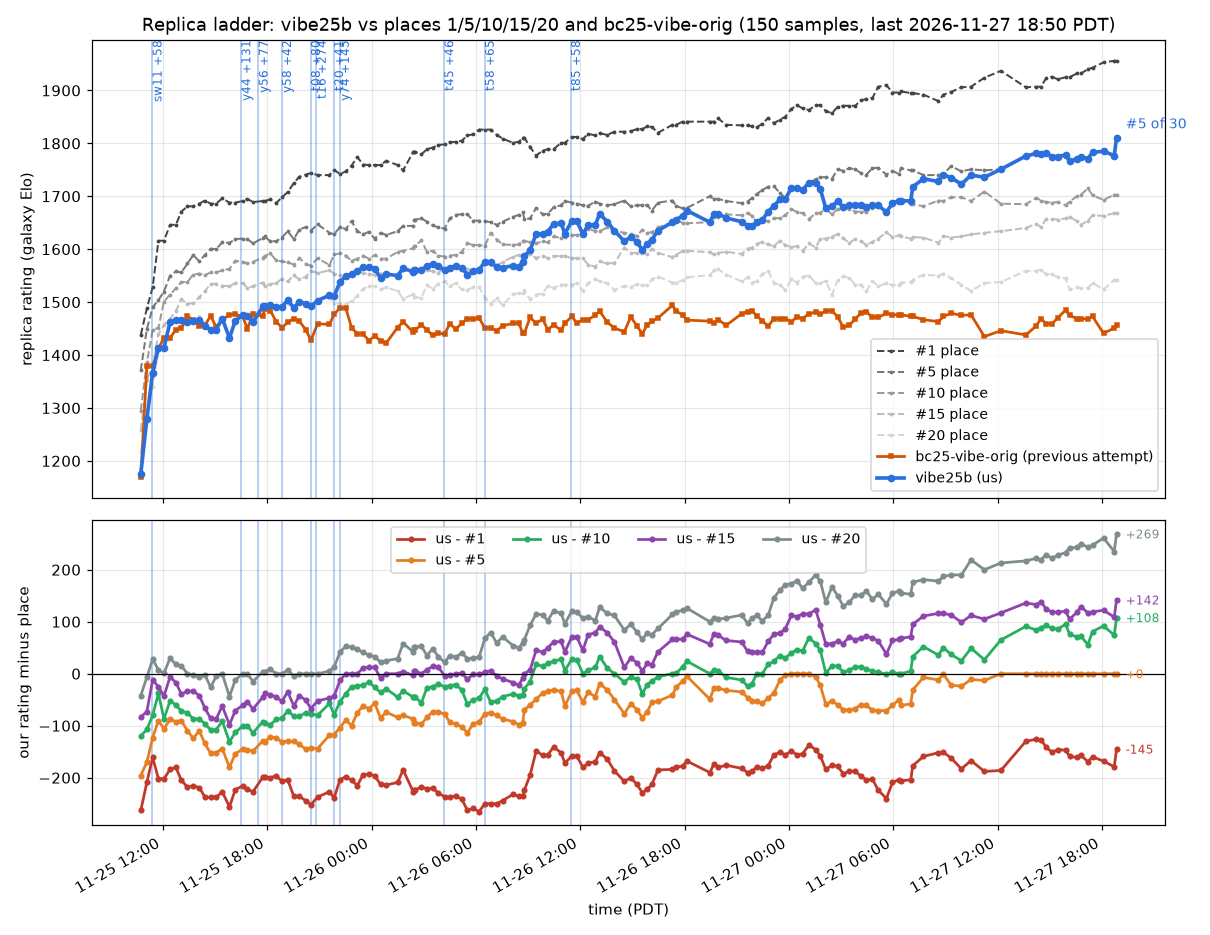
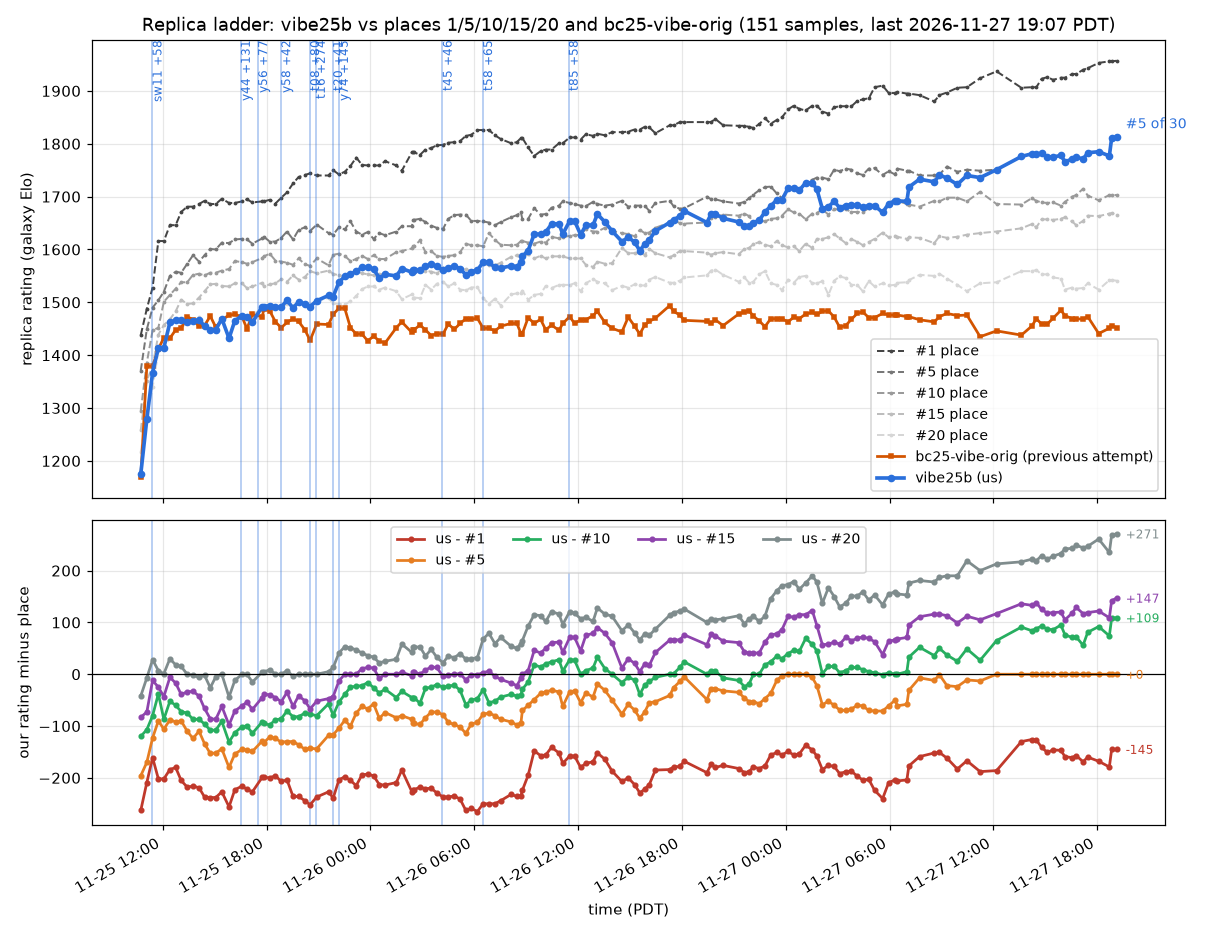
prod: retire t165 (-20); y316 sets 1812 at #5
Claude-Session: https://claude.ai/code/session_01SzziPSCWtjsjju9cnThDf5

diff --git a/progress/local-elo.md b/progress/local-elo.md
@@ -1,58 +1,58 @@
 # Local tournament Elo
 
-Bradley-Terry ratings of our own bots in the local tournament (`tools/tourney.py`), all 184613 games in one fit as of 2026-11-27 18:58 PDT, so every point is on the same scale; earlier champions are shown at their current rating, and "Gain" is the rating over the champion it replaced. `tools/tourney.py rank` rewrites this table; `tools/tourney.py chart` also redraws the chart.
+Bradley-Terry ratings of our own bots in the local tournament (`tools/tourney.py`), all 185745 games in one fit as of 2026-11-27 19:08 PDT, so every point is on the same scale; earlier champions are shown at their current rating, and "Gain" is the rating over the champion it replaced. `tools/tourney.py rank` rewrites this table; `tools/tourney.py chart` also redraws the chart.
 
 ![local elo](local-elo.png)
 
 | Champion from (PDT) | Bot | Change on base | Submission | Rating +- SE | Gain | Games |
 |---|---|---|---:|---:|---:|---:|
-| 2026-11-25 08:28 | v01 | foundation bot |  | 105 +- 18 |  | 435 |
-| 2026-11-25 08:39 | v02 | nav wall-follow fix + bytecode guards on v01 | #6 | 170 +- 13 | +65 | 801 |
-| 2026-11-25 09:01 | y02 | paint-heavy tower mix + paint towers upgraded first on v02 | #7 | 229 +- 11 | +59 | 1080 |
-| 2026-11-25 09:49 | y06 | 3 opening soldiers instead of 2 on y02 | #35 | 250 +- 13 | +21 | 700 |
-| 2026-11-25 10:09 | sw06 | no moppers before r80; a third of spawns moppers after (field study 1) on y02 | #36 | 308 +- 12 | +79 | 863 |
-| 2026-11-25 11:04 | y11 | mid-game mix 3 moppers per 6 (soldier mopper splasher mopper soldier mopper) on sw06 | #37 | 340 +- 14 | +33 | 655 |
-| 2026-11-25 11:24 | sw11 | at most 1 helper soldier per ruin (more ruins claimed in parallel) on y11 | #38 | 398 +- 11 | +58 | 1159 |
-| 2026-11-25 12:24 | y17 | sw11 + moppers prefer enemies within r2 25 of our towers (sw12) on sw11 | #39 | 417 +- 12 | +18 | 871 |
-| 2026-11-25 12:44 | y19 | sw11 with soldiers joining an occupied ruin only when adjacent (r2<=2) on y17 | #40 | 452 +- 14 | +35 | 678 |
-| 2026-11-25 13:04 | y24 | y17 with mopper defence widened (DEFEND_R2 36 / bonus 80) on y19 | #41 | 486 +- 13 | +35 | 679 |
-| 2026-11-25 13:24 | y25 | y19 (adjacent-only ruin helping) + y17 tower-defending moppers on y24 | #42 | 496 +- 12 | +9 | 898 |
-| 2026-11-25 13:44 | sw16 | y25 + soldier siege: with no ruin and paint>=80 kite a known enemy tower within r2 64 on y25 | #43 | 520 +- 11 | +24 | 976 |
-| 2026-11-25 14:04 | sw17 | y28 (siege from 50 paint r2 100) + splasher siege (towers weigh 40; walk to known tower within r2 100 at paint>=100) on sw16 | #44 | 553 +- 10 | +33 | 1110 |
-| 2026-11-25 14:44 | y30 | y28 with soldier siege from 30 paint within r2 144 (no splasher siege) on sw17 | #45 | 570 +- 7 | +17 | 2377 |
-| 2026-11-25 16:30 | y44 | study 3 tactic 3 (enemy refill policy): return at 50% paint (soldier 100/splasher 100/mopper 40) + end-of-turn top-up from any adjacent ally tower on y30 | #46 | 700 +- 8 | +131 | 2250 |
-| 2026-11-25 17:30 | y56 | study 3 tactic 4 (tower churn): a drained L1 money tower with intact pattern and an ally adjacent disintegrates at >=2000 chips; adjacent robots re-complete it for a fresh 500 paint on y44 | #47 | 778 +- 10 | +77 | 1320 |
-| 2026-11-25 18:50 | y58 | study 3 tactic 2 (early soldiers paint patterns not coverage): exploring soldiers paint no coverage before r50 on y56 | #48 | 819 +- 11 | +42 | 997 |
-| 2026-11-25 19:30 | t04 | t02 (no coverage painting before r80) + t03 (units wait beside drained money towers and repair their pattern so churn fires; study 3 tactics 2 and 4) on y58 | #49 | 852 +- 11 | +33 | 1065 |
-| 2026-11-25 20:30 | t08 | study 4 2.2 (contested ruins): soldiers skip a ruin with enemy paint in its visible 5x5 (bad for 50 rounds) on t04 | #50 | 932 +- 13 | +80 | 775 |
-| 2026-11-25 20:50 | t16 | t12 (t08 + study 4 2.1 spawn freeze 8 rounds in 20 below 1000+cost) + study 4 2.4 money-first: builds money until 8 towers then paint while paint towers < n/5; paint first only if none (all towers known) on t08 | #51 | 1207 +- 12 | +274 | 1213 |
-| 2026-11-25 21:50 | t20 | study 4 2.3: splashers weight enemy towers 30 (was 12) in the splash score on t16 | #52 | 1248 +- 15 | +41 | 587 |
-| 2026-11-25 22:10 | y74 | unit audit (owner prompt #15): splash-grid bug fix (enemy tiles never scored) + moppers stop once enemy paint is in mop reach; built on t16 on t20 | #53 | 1392 +- 10 | +145 | 1255 |
-| 2026-11-25 23:10 | t25 | unit audit + top teams' unit mix (616 S / 662 X / 701 M): after r80 paint towers cycle soldier-splasher-mopper; money towers keep S M X M S M on y74 | #54 | 1429 +- 13 | +36 | 680 |
-| 2026-11-25 23:30 | t27 | top teams' splasher-heavy late mix pushed further: paint towers cycle soldier-splasher-splasher-mopper after r80 on t25 | #55 | 1451 +- 9 | +23 | 1554 |
-| 2026-11-26 00:30 | y95 | upgrade spare 1200 (was 800): chips stay for new towers longer on t27 | #56 | 1486 +- 9 | +35 | 1822 |
-| 2026-11-26 02:01 | t36 | late SRPs (study 4 2.6 / study 3 tactic 7): soldiers without a ruin build SRPs on the x%4==2 y%4==2 lattice from r100 with chips>=1000; splashers avoid repainting SRP secondary tiles on y95 | #57 | 1523 +- 11 | +37 | 977 |
-| 2026-11-26 02:50 | y110 | money towers upgrade only with 2500 chips beyond the cost+spare (was 1000): chips go to new towers and SRPs on t36 | #58 | 1554 +- 10 | +31 | 1260 |
-| 2026-11-26 03:30 | t42 | study 4 3.1 recovery: with every tower known and no money tower left the next ruin is a money tower on y110 | #59 | 1568 +- 10 | +14 | 1332 |
-| 2026-11-26 04:10 | t45 | study 3 tactic 1: after r40 towers spawn only with 1000 chips beyond the unit's cost (no 600-chip window) on t42 | #60 | 1614 +- 10 | +46 | 1226 |
-| 2026-11-26 04:50 | t47 | study 3 tactic 5: a mopper due in the cycle spawns even below the 1000 reserve when an enemy robot is within d2 20 of the tower on t45 | #61 | 1643 +- 7 | +29 | 2398 |
-| 2026-11-26 06:30 | t58 | study 5 2.3: a splasher that has not splashed for 8 rounds (while able to) explores instead of chasing the nearest non-ally tile on t47 | #62 | 1708 +- 11 | +65 | 1087 |
-| 2026-11-26 07:10 | t61 | study 5 2.1 (softened): money towers for builds 1-5; then one more paint tower per 4 towers on t58 | #63 | 1744 +- 11 | +36 | 938 |
-| 2026-11-26 07:30 | y155 | study 5 2.1 tuned: money towers for builds 1-6; then one more paint tower per 4 towers on t61 | #64 | 1775 +- 9 | +31 | 1615 |
-| 2026-11-26 08:27 | t70 | y155 + splashers weight enemy towers 30 (t68) + 2000+ chips makes the next tower a paint tower (y159) on y155 | #65 | 1802 +- 7 | +26 | 2530 |
-| 2026-11-26 09:47 | t74 | moppers weight enemy paint near ruins 40 (study 6 2.1c) on t70 | #66 | 1821 +- 8 | +19 | 2200 |
-| 2026-11-26 10:47 | y170 | soldiers make the next tower a paint tower at 1500+ chips (t63 tuning; was 2000) on t74 | #67 | 1817 +- 7 | -4 | 2823 |
-| 2026-11-26 11:27 | t85 | study 6 2.2 ruin denial from where the soldier stands: a soldier with no ruin paints empty tiles of a ruin the enemy is building; without walking to it on y170 | #68 | 1874 +- 7 | +58 | 2556 |
-| 2026-11-26 12:47 | t91 | study 7 2.5: moppers ignore ruins under enemy towers when weighting ruin paint on t85 | #69 | 1886 +- 5 | +12 | 5663 |
-| 2026-11-26 13:27 | y195 | study 7 2.1a: explore unseen tiles first; up to 16 random draws on t91 | #70 | 1900 +- 9 | +14 | 1349 |
-| 2026-11-26 14:12 | y197 | ruin denial stops at 2 of our tiles (tuning of study 6 2.2) on y195 | #71 | 1916 +- 7 | +16 | 2235 |
-| 2026-11-26 15:27 | y211 | study 7 2.1a tuned: up to 128 random draws for an unseen explore target (was 16) on y197 | #72 | 1919 +- 6 | +3 | 4141 |
-| 2026-11-26 17:47 | y221 | study 8 2.2 (paint the first tower's pattern on the way in; a second soldier on the first ruin) + explore timeout 90; first champion through the confirmation stage (owner #46) on y211 | #73 | 1955 +- 5 | +35 | 6990 |
-| 2026-11-26 19:34 | t111 | splashers attack enemy paint/money towers from a stand-off tile outside their range (study 8 2.4) on y221 | #74 | 1969 +- 4 | +14 | 7551 |
-| 2026-11-26 23:27 | t118 | study 9 2.1b: a soldier on a blocked pattern with no own mopper or splasher in view gives up after 5 turns (was 25); confirmed +71 +-29 in 153 fresh games on t111 | #75 | 2005 +- 4 | +36 | 15801 |
-| 2026-11-27 01:07 | t122 | study 9 2.4: paint-tower dry flags expire after 10 rounds (was 40) and a flagged tower in sight is re-sensed; confirmed +6 +-19 in 378 fresh games; +16 overall on t118 | #76 | 2016 +- 4 | +11 | 18772 |
-| 2026-11-27 06:10 | t135 | study 10 2.6d: a soldier with no other soldier in view skips the 25-paint pattern mark (the top teams never mark); confirmed +9 +-22 in 262 fresh games; +14 overall on t122 | #77 | 2012 +- 6 | -4 | 6388 |
-| 2026-11-27 08:28 | t140 (now r140, verified identical) | study 11 2.1: free single marks (rc.mark on the 5x5 outer ring) replace the 25-paint pattern mark; marks re-read beside the ruin; confirmed +40 +-23 in 251 fresh games; +30 overall on t135 | #78 | 2055 +- 4 | +43 | 15874 |
-| 2026-11-27 16:27 | t158 | study 12 2.2: moppers hit and run (after acting; step off non-ally paint and away from enemy moppers within d2 8 and towers within d2 9); +40 +-24 over r140 in 217 games; first crowning without the confirmation stage (owner #66) on r140 | #79 | 2092 +- 7 | +38 | 2631 |
-| 2026-11-27 17:47 | t160 | t158 + study 12 2.4 n1 (Nav.tileCost counts adjacent allies; the engine's drain rule; y295) + 2.2 m1 (moppers swing at a single robot; t152); +17 +-15 over t158 in 818 games on t158 | #80 | 2107 +- 8 | +15 | 1943 |
-| 2026-11-27 18:25 | y316 | t160 + Nav paint weight 8 (was 6); +34 +-25 over t160 in 224 games on t160 | #81 | 2101 +- 13 | -6 | 722 |
+| 2026-11-25 08:28 | v01 | foundation bot |  | 99 +- 18 |  | 435 |
+| 2026-11-25 08:39 | v02 | nav wall-follow fix + bytecode guards on v01 | #6 | 164 +- 13 | +65 | 801 |
+| 2026-11-25 09:01 | y02 | paint-heavy tower mix + paint towers upgraded first on v02 | #7 | 223 +- 11 | +59 | 1080 |
+| 2026-11-25 09:49 | y06 | 3 opening soldiers instead of 2 on y02 | #35 | 244 +- 13 | +21 | 700 |
+| 2026-11-25 10:09 | sw06 | no moppers before r80; a third of spawns moppers after (field study 1) on y02 | #36 | 302 +- 12 | +79 | 863 |
+| 2026-11-25 11:04 | y11 | mid-game mix 3 moppers per 6 (soldier mopper splasher mopper soldier mopper) on sw06 | #37 | 334 +- 14 | +33 | 655 |
+| 2026-11-25 11:24 | sw11 | at most 1 helper soldier per ruin (more ruins claimed in parallel) on y11 | #38 | 392 +- 11 | +58 | 1159 |
+| 2026-11-25 12:24 | y17 | sw11 + moppers prefer enemies within r2 25 of our towers (sw12) on sw11 | #39 | 411 +- 12 | +18 | 871 |
+| 2026-11-25 12:44 | y19 | sw11 with soldiers joining an occupied ruin only when adjacent (r2<=2) on y17 | #40 | 446 +- 14 | +35 | 678 |
+| 2026-11-25 13:04 | y24 | y17 with mopper defence widened (DEFEND_R2 36 / bonus 80) on y19 | #41 | 480 +- 13 | +35 | 679 |
+| 2026-11-25 13:24 | y25 | y19 (adjacent-only ruin helping) + y17 tower-defending moppers on y24 | #42 | 490 +- 12 | +9 | 898 |
+| 2026-11-25 13:44 | sw16 | y25 + soldier siege: with no ruin and paint>=80 kite a known enemy tower within r2 64 on y25 | #43 | 514 +- 11 | +24 | 976 |
+| 2026-11-25 14:04 | sw17 | y28 (siege from 50 paint r2 100) + splasher siege (towers weigh 40; walk to known tower within r2 100 at paint>=100) on sw16 | #44 | 547 +- 10 | +33 | 1110 |
+| 2026-11-25 14:44 | y30 | y28 with soldier siege from 30 paint within r2 144 (no splasher siege) on sw17 | #45 | 564 +- 7 | +17 | 2377 |
+| 2026-11-25 16:30 | y44 | study 3 tactic 3 (enemy refill policy): return at 50% paint (soldier 100/splasher 100/mopper 40) + end-of-turn top-up from any adjacent ally tower on y30 | #46 | 694 +- 8 | +131 | 2250 |
+| 2026-11-25 17:30 | y56 | study 3 tactic 4 (tower churn): a drained L1 money tower with intact pattern and an ally adjacent disintegrates at >=2000 chips; adjacent robots re-complete it for a fresh 500 paint on y44 | #47 | 772 +- 10 | +77 | 1320 |
+| 2026-11-25 18:50 | y58 | study 3 tactic 2 (early soldiers paint patterns not coverage): exploring soldiers paint no coverage before r50 on y56 | #48 | 813 +- 11 | +42 | 997 |
+| 2026-11-25 19:30 | t04 | t02 (no coverage painting before r80) + t03 (units wait beside drained money towers and repair their pattern so churn fires; study 3 tactics 2 and 4) on y58 | #49 | 846 +- 11 | +33 | 1065 |
+| 2026-11-25 20:30 | t08 | study 4 2.2 (contested ruins): soldiers skip a ruin with enemy paint in its visible 5x5 (bad for 50 rounds) on t04 | #50 | 926 +- 13 | +80 | 775 |
+| 2026-11-25 20:50 | t16 | t12 (t08 + study 4 2.1 spawn freeze 8 rounds in 20 below 1000+cost) + study 4 2.4 money-first: builds money until 8 towers then paint while paint towers < n/5; paint first only if none (all towers known) on t08 | #51 | 1201 +- 12 | +274 | 1213 |
+| 2026-11-25 21:50 | t20 | study 4 2.3: splashers weight enemy towers 30 (was 12) in the splash score on t16 | #52 | 1242 +- 15 | +41 | 587 |
+| 2026-11-25 22:10 | y74 | unit audit (owner prompt #15): splash-grid bug fix (enemy tiles never scored) + moppers stop once enemy paint is in mop reach; built on t16 on t20 | #53 | 1386 +- 10 | +145 | 1255 |
+| 2026-11-25 23:10 | t25 | unit audit + top teams' unit mix (616 S / 662 X / 701 M): after r80 paint towers cycle soldier-splasher-mopper; money towers keep S M X M S M on y74 | #54 | 1423 +- 13 | +36 | 680 |
+| 2026-11-25 23:30 | t27 | top teams' splasher-heavy late mix pushed further: paint towers cycle soldier-splasher-splasher-mopper after r80 on t25 | #55 | 1445 +- 9 | +22 | 1554 |
+| 2026-11-26 00:30 | y95 | upgrade spare 1200 (was 800): chips stay for new towers longer on t27 | #56 | 1480 +- 9 | +35 | 1822 |
+| 2026-11-26 02:01 | t36 | late SRPs (study 4 2.6 / study 3 tactic 7): soldiers without a ruin build SRPs on the x%4==2 y%4==2 lattice from r100 with chips>=1000; splashers avoid repainting SRP secondary tiles on y95 | #57 | 1517 +- 11 | +37 | 977 |
+| 2026-11-26 02:50 | y110 | money towers upgrade only with 2500 chips beyond the cost+spare (was 1000): chips go to new towers and SRPs on t36 | #58 | 1548 +- 10 | +31 | 1260 |
+| 2026-11-26 03:30 | t42 | study 4 3.1 recovery: with every tower known and no money tower left the next ruin is a money tower on y110 | #59 | 1562 +- 10 | +14 | 1332 |
+| 2026-11-26 04:10 | t45 | study 3 tactic 1: after r40 towers spawn only with 1000 chips beyond the unit's cost (no 600-chip window) on t42 | #60 | 1608 +- 10 | +46 | 1226 |
+| 2026-11-26 04:50 | t47 | study 3 tactic 5: a mopper due in the cycle spawns even below the 1000 reserve when an enemy robot is within d2 20 of the tower on t45 | #61 | 1637 +- 7 | +29 | 2398 |
+| 2026-11-26 06:30 | t58 | study 5 2.3: a splasher that has not splashed for 8 rounds (while able to) explores instead of chasing the nearest non-ally tile on t47 | #62 | 1702 +- 11 | +65 | 1087 |
+| 2026-11-26 07:10 | t61 | study 5 2.1 (softened): money towers for builds 1-5; then one more paint tower per 4 towers on t58 | #63 | 1738 +- 11 | +36 | 938 |
+| 2026-11-26 07:30 | y155 | study 5 2.1 tuned: money towers for builds 1-6; then one more paint tower per 4 towers on t61 | #64 | 1769 +- 9 | +31 | 1615 |
+| 2026-11-26 08:27 | t70 | y155 + splashers weight enemy towers 30 (t68) + 2000+ chips makes the next tower a paint tower (y159) on y155 | #65 | 1796 +- 7 | +26 | 2530 |
+| 2026-11-26 09:47 | t74 | moppers weight enemy paint near ruins 40 (study 6 2.1c) on t70 | #66 | 1814 +- 8 | +19 | 2200 |
+| 2026-11-26 10:47 | y170 | soldiers make the next tower a paint tower at 1500+ chips (t63 tuning; was 2000) on t74 | #67 | 1810 +- 7 | -4 | 2823 |
+| 2026-11-26 11:27 | t85 | study 6 2.2 ruin denial from where the soldier stands: a soldier with no ruin paints empty tiles of a ruin the enemy is building; without walking to it on y170 | #68 | 1868 +- 7 | +58 | 2556 |
+| 2026-11-26 12:47 | t91 | study 7 2.5: moppers ignore ruins under enemy towers when weighting ruin paint on t85 | #69 | 1880 +- 5 | +12 | 5663 |
+| 2026-11-26 13:27 | y195 | study 7 2.1a: explore unseen tiles first; up to 16 random draws on t91 | #70 | 1894 +- 9 | +14 | 1349 |
+| 2026-11-26 14:12 | y197 | ruin denial stops at 2 of our tiles (tuning of study 6 2.2) on y195 | #71 | 1910 +- 7 | +16 | 2235 |
+| 2026-11-26 15:27 | y211 | study 7 2.1a tuned: up to 128 random draws for an unseen explore target (was 16) on y197 | #72 | 1913 +- 6 | +3 | 4141 |
+| 2026-11-26 17:47 | y221 | study 8 2.2 (paint the first tower's pattern on the way in; a second soldier on the first ruin) + explore timeout 90; first champion through the confirmation stage (owner #46) on y211 | #73 | 1948 +- 5 | +35 | 6990 |
+| 2026-11-26 19:34 | t111 | splashers attack enemy paint/money towers from a stand-off tile outside their range (study 8 2.4) on y221 | #74 | 1962 +- 4 | +14 | 7551 |
+| 2026-11-26 23:27 | t118 | study 9 2.1b: a soldier on a blocked pattern with no own mopper or splasher in view gives up after 5 turns (was 25); confirmed +71 +-29 in 153 fresh games on t111 | #75 | 1999 +- 4 | +36 | 15801 |
+| 2026-11-27 01:07 | t122 | study 9 2.4: paint-tower dry flags expire after 10 rounds (was 40) and a flagged tower in sight is re-sensed; confirmed +6 +-19 in 378 fresh games; +16 overall on t118 | #76 | 2009 +- 4 | +11 | 18772 |
+| 2026-11-27 06:10 | t135 | study 10 2.6d: a soldier with no other soldier in view skips the 25-paint pattern mark (the top teams never mark); confirmed +9 +-22 in 262 fresh games; +14 overall on t122 | #77 | 2006 +- 5 | -4 | 6458 |
+| 2026-11-27 08:28 | t140 (now r140, verified identical) | study 11 2.1: free single marks (rc.mark on the 5x5 outer ring) replace the 25-paint pattern mark; marks re-read beside the ruin; confirmed +40 +-23 in 251 fresh games; +30 overall on t135 | #78 | 2048 +- 4 | +42 | 15983 |
+| 2026-11-27 16:27 | t158 | study 12 2.2: moppers hit and run (after acting; step off non-ally paint and away from enemy moppers within d2 8 and towers within d2 9); +40 +-24 over r140 in 217 games; first crowning without the confirmation stage (owner #66) on r140 | #79 | 2086 +- 7 | +38 | 2650 |
+| 2026-11-27 17:47 | t160 | t158 + study 12 2.4 n1 (Nav.tileCost counts adjacent allies; the engine's drain rule; y295) + 2.2 m1 (moppers swing at a single robot; t152); +17 +-15 over t158 in 818 games on t158 | #80 | 2102 +- 8 | +16 | 2052 |
+| 2026-11-27 18:25 | y316 | t160 + Nav paint weight 8 (was 6); +34 +-25 over t160 in 224 games on t160 | #81 | 2115 +- 10 | +13 | 1350 |
